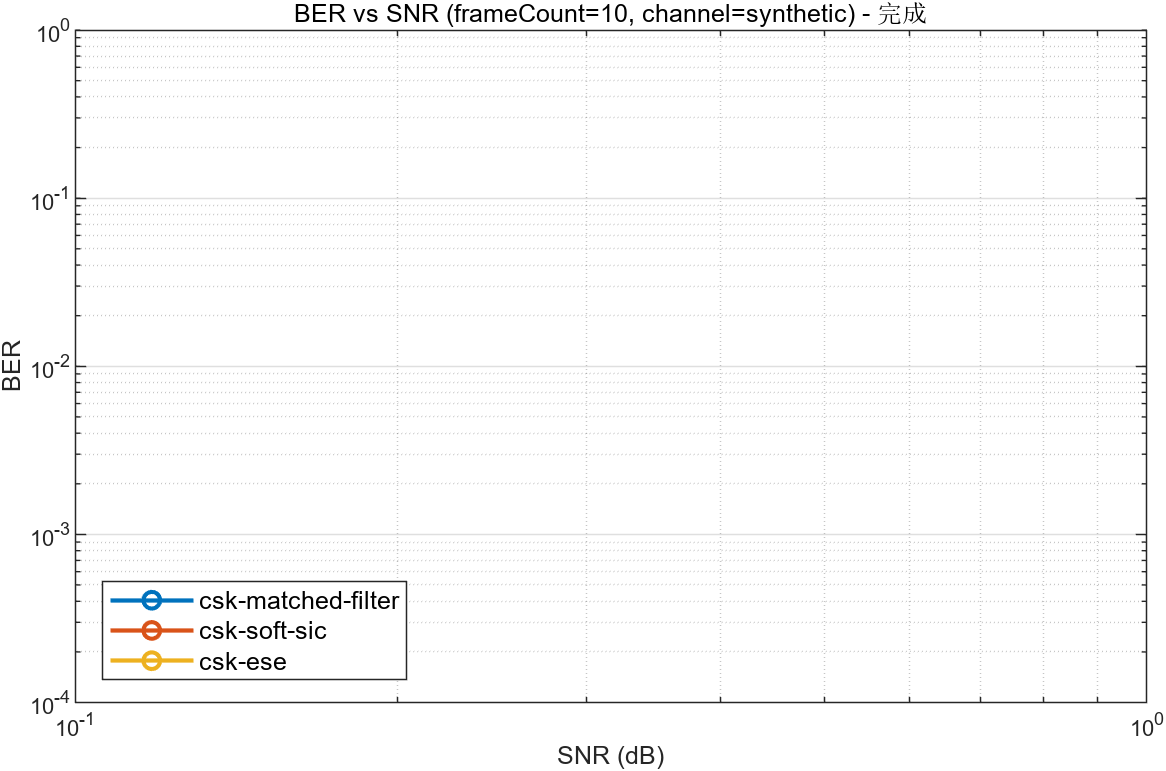
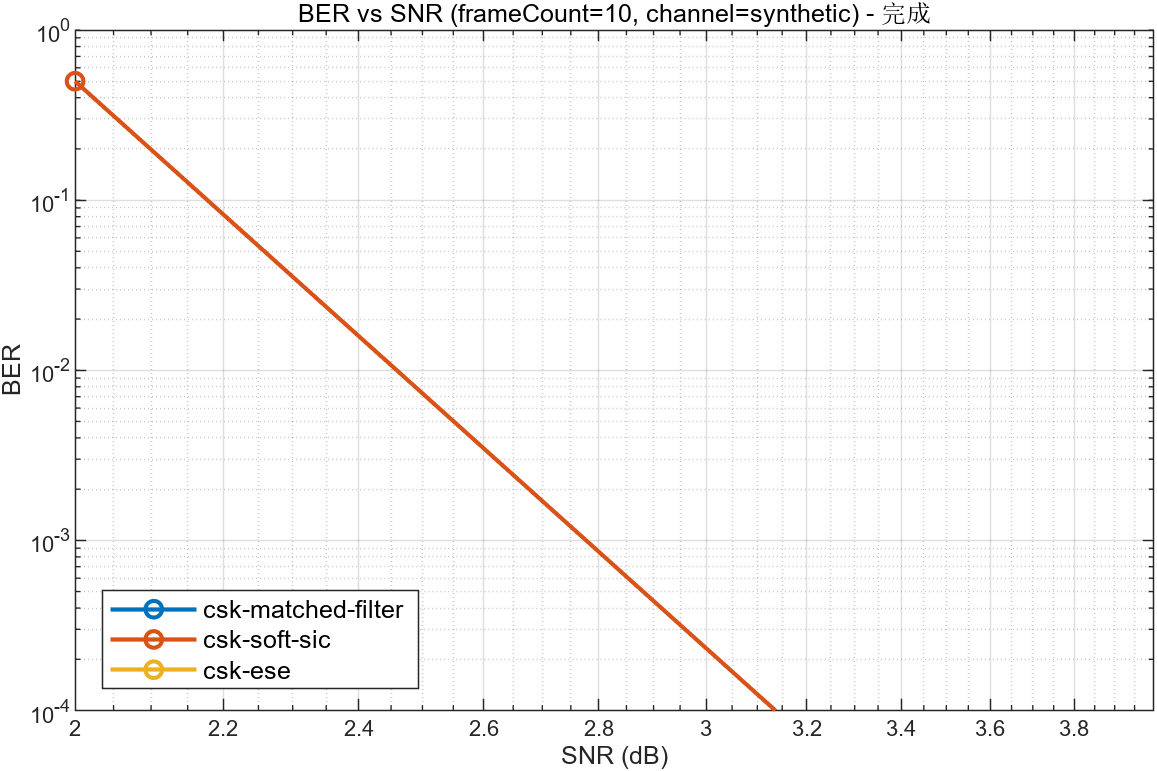
fix: csk BER statistics doubled - random-detection floor was 0.5 instead of 0.25
run_unified_equalizer csk stats indexed the 8-long bit vector with the
4-long info-symbol logical mask, silently counting only the first 4
bits: totalBits halved, BER doubled. Matched-filter and soft-SIC showed
a flat 0.5 line below threshold; the true random floor for 4-ary CSK
(2 bits/codeword) is 0.25. Filter the info axis before reshaping to
bits. Verified: csk-matched-filter/csk-soft-sic now 0.25 below
threshold and 0 at 4 dB+, csk-ese stays 0 (ESE+repetition gain).
MATLAB 123/123, equalizers 37/37 PASS

diff --git a/papers/run_unified_equalizer.m b/papers/run_unified_equalizer.m
@@ -417,9 +417,15 @@ for frame = 1:cfg.frameCount
         txBits = reshape(bits(infoIdx, :).', 1, []);
         rxBits = reshape(bits(detInfo, :).', 1, []);
         valid = ~isnan(detInfo);
+        % Filter the info-symbol axis BEFORE expanding to bits: indexing
+        % the 8-long bit vector with the 4-long logical mask silently
+        % took only the first 4 bits, halving totalBits and doubling BER
+        % (random-detection floor became 0.5 instead of 0.25).
         totalErrors(eq) = totalErrors(eq) + ...
-            sum(rxBits(~isnan(detInfo)) ~= txBits(~isnan(detInfo)));
-        totalBits(eq) = totalBits(eq) + numel(txBits(valid));
+            sum(reshape(bits(detInfo(valid), :).', 1, []) ~= ...
+                reshape(bits(infoIdx(valid), :).', 1, []));
+        totalBits(eq) = totalBits(eq) + ...
+            numel(reshape(bits(infoIdx(valid), :).', 1, []));
     end
 end
 results.ber = totalErrors ./ totalBits;
